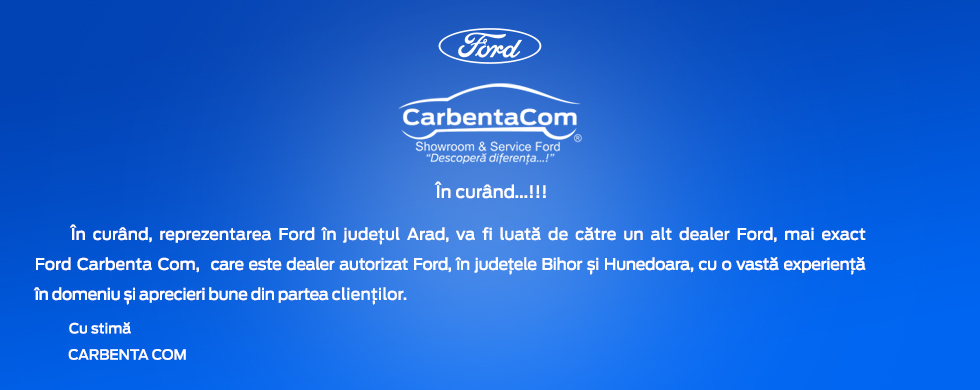
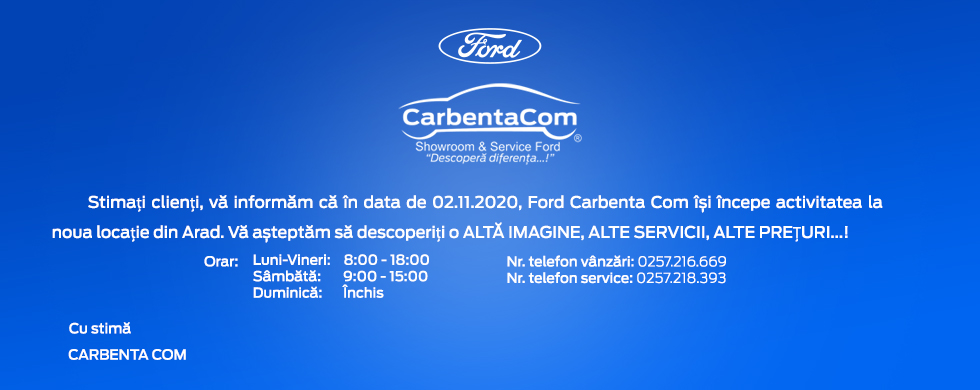
update

Changed region(s): [[0.0306, 0.4615, 0.9184, 0.6154], [0.0306, 0.6462, 0.8878, 0.7692]]

diff --git a/application/views/home.php b/application/views/home.php
@@ -178,7 +178,7 @@
 -->
 
 <article role="option">
-    <a class="carImg" href="#img1"><img src="/assets/img/site2.jpg"
+    <a class="carImg" href="#img1"><img src="/assets/img/site1.jpg"
                                         alt="&lt;span style=&quot;font-size:28px;&quot;&gt;&lt;span style=&quot;font-family:FordAntennaRegular;&quot;&gt; &lt;/span&gt;&lt;span style=&quot;font-family:FordAntennaBlack;&quot;&gt; &lt;/span&gt;&lt;/span&gt;"
                                         role="presentation"></a>
 
